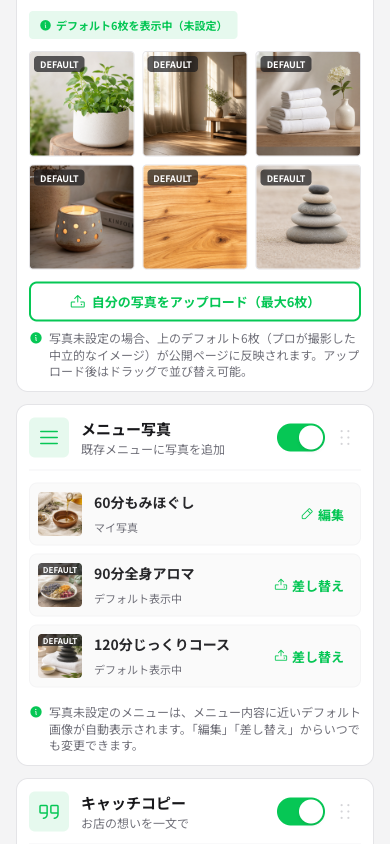
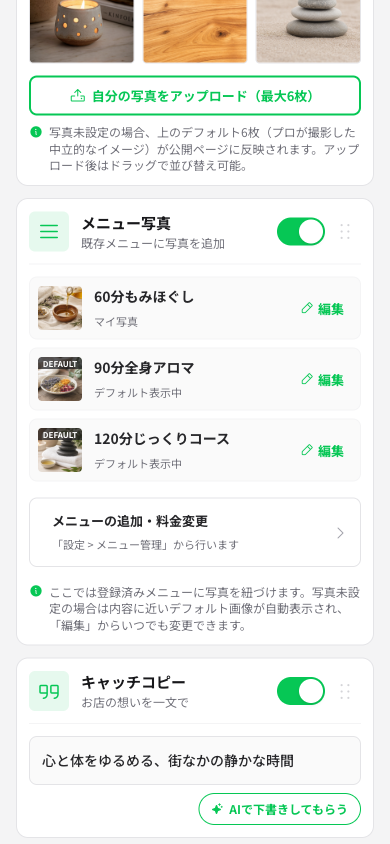
fix(admin02): メニュー写真ボタンを「編集」に統一 / メニュー管轄を明示
- Block 5 メニュー写真の3項目すべて、ボタンラベルを「編集」に統一
  ｜デフォルト表示中も「差し替え」→「編集」に変更
- 「メニューの追加・料金変更」リンクカードを新設、settings.html（メニュー管理）へ誘導
- 注釈を「ここでは登録済みメニューに写真を紐づけます」に変更し、ここの責務を明示

diff --git a/shop-page/admin/02_block-edit.html b/shop-page/admin/02_block-edit.html
@@ -336,8 +336,8 @@
                 <span class="text-[11px] text-zinc-500">デフォルト表示中</span>
               </div>
               <button class="menu-photo-edit text-[13px] font-bold text-line h-8 px-2 flex items-center gap-1" data-menu="90分全身アロマ" data-state="default">
-                <i class="ph ph-upload text-[14px]"></i>
-                差し替え
+                <i class="ph ph-pencil-simple text-[14px]"></i>
+                編集
               </button>
             </div>
 
@@ -352,14 +352,24 @@
                 <span class="text-[11px] text-zinc-500">デフォルト表示中</span>
               </div>
               <button class="menu-photo-edit text-[13px] font-bold text-line h-8 px-2 flex items-center gap-1" data-menu="120分じっくりコース" data-state="default">
-                <i class="ph ph-upload text-[14px]"></i>
-                差し替え
+                <i class="ph ph-pencil-simple text-[14px]"></i>
+                編集
               </button>
             </div>
 
+            <!-- メニュー管轄の説明 -->
+            <a href="../../mockups/A_pure-line/settings.html" class="mt-2 flex items-center gap-2.5 p-3 bg-white border border-zinc-200 rounded-lg touch-active">
+              <i class="ph ph-arrow-right-up text-[18px] text-line"></i>
+              <div class="flex-1 min-w-0">
+                <span class="text-[13px] font-bold text-zinc-800 block">メニューの追加・料金変更</span>
+                <span class="text-[11px] text-zinc-500">「設定 &gt; メニュー管理」から行います</span>
+              </div>
+              <i class="ph ph-caret-right text-[16px] text-zinc-400"></i>
+            </a>
+
             <p class="mt-2 text-[12px] text-zinc-500 leading-snug flex items-start gap-1.5">
               <i class="ph-fill ph-info text-line text-[14px] shrink-0 mt-[1px]"></i>
-              <span>写真未設定のメニューは、メニュー内容に近いデフォルト画像が自動表示されます。「編集」「差し替え」からいつでも変更できます。</span>
+              <span>ここでは登録済みメニューに写真を紐づけます。写真未設定の場合は内容に近いデフォルト画像が自動表示され、「編集」からいつでも変更できます。</span>
             </p>
           </div>
         </article>
